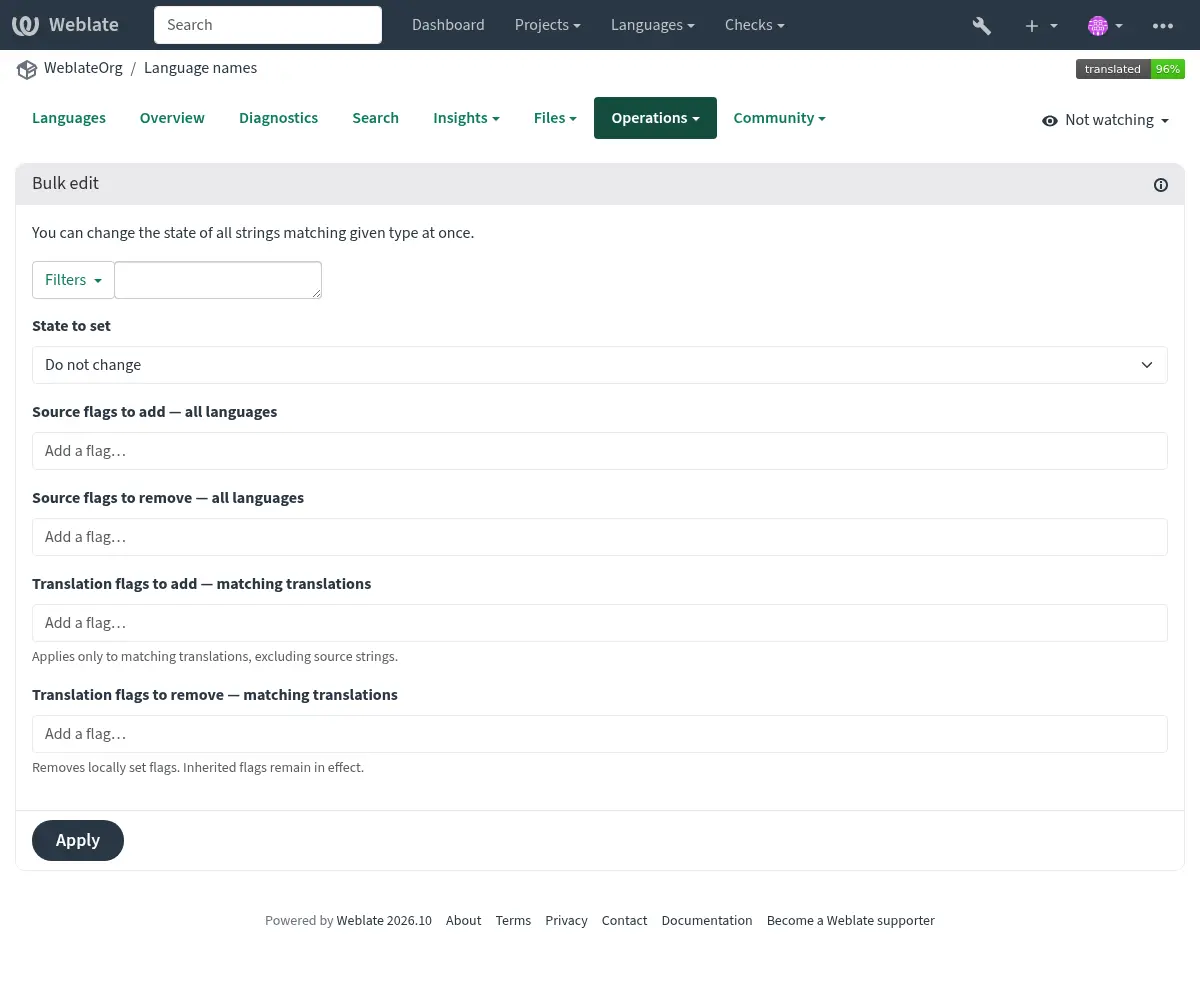
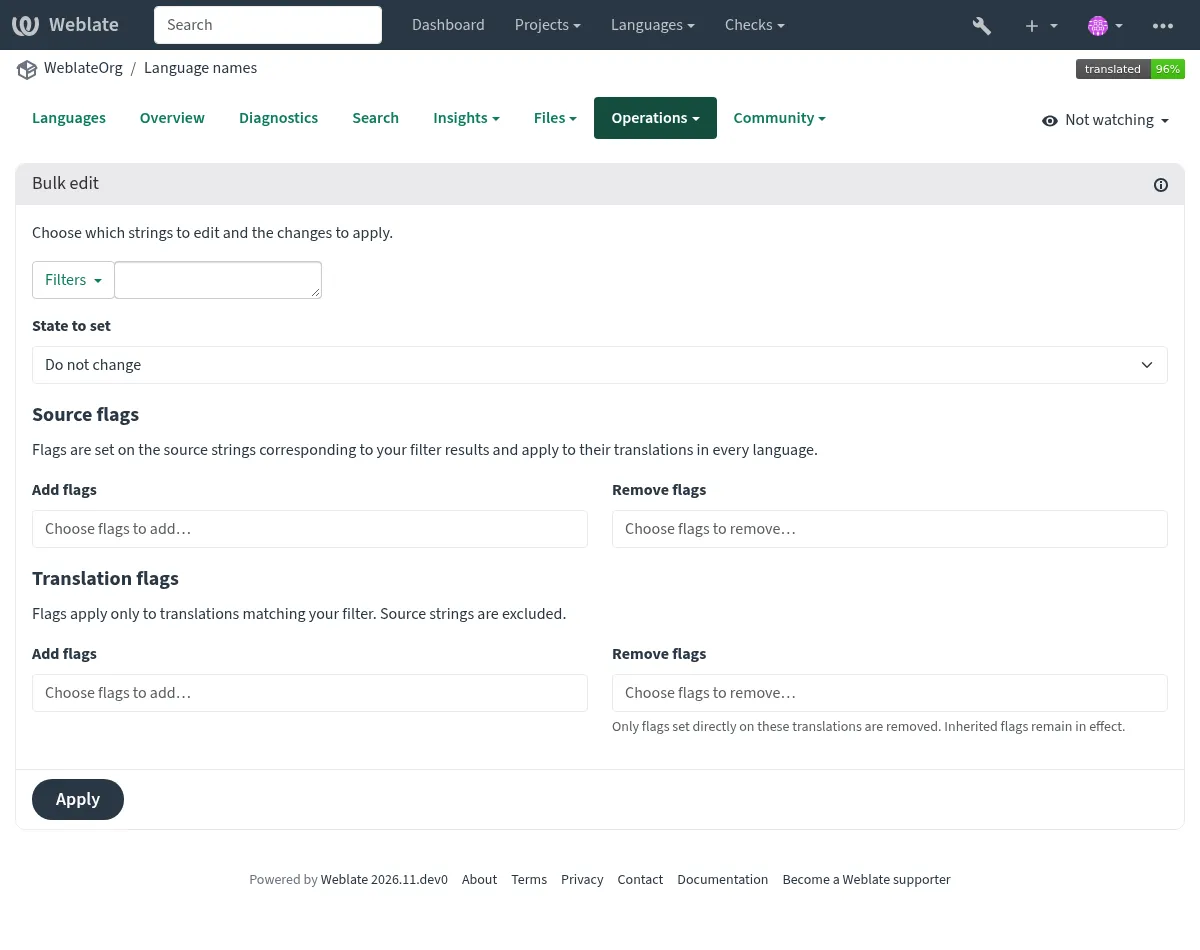
fix(ui): clarify bulk edit actions and scope
Group flags and labels by scope with paired add and remove fields to make their effects easier to distinguish. Use action-specific flag placeholders and verify responsive layout and accessible names in browser tests.

diff --git a/weblate/static/js/flag-editor.js b/weblate/static/js/flag-editor.js
@@ -151,7 +151,7 @@
       optgroupField: "category",
       optgroupLabelField: "category",
       optgroupValueField: "category",
-      placeholder: gettext("Add a flag…"),
+      placeholder: input.getAttribute("placeholder") || gettext("Add a flag…"),
       hidePlaceholder: false,
       maxOptions: null,
       render: {

diff --git a/weblate/templates/snippets/bulk-help.html b/weblate/templates/snippets/bulk-help.html
@@ -1,3 +1,3 @@
 {% load i18n %}
 
-<p>{% translate "You can change the state of all strings matching given type at once." %}</p>
+<p>{% translate "Choose which strings to edit and the changes to apply." %}</p>

diff --git a/weblate/trans/forms.py b/weblate/trans/forms.py
@@ -4609,35 +4609,26 @@ class BulkEditForm(forms.Form):
         choices=[(-1, gettext_lazy("Do not change"))],
     )
     path = forms.CharField(widget=forms.HiddenInput, required=False)
-    add_flags = FlagField(
-        label=gettext_lazy("Source flags to add — all languages"), required=False
-    )
-    remove_flags = FlagField(
-        label=gettext_lazy("Source flags to remove — all languages"), required=False
-    )
-    add_translation_flags = FlagField(
-        label=gettext_lazy("Translation flags to add — matching translations"),
-        required=False,
-        help_text=gettext_lazy(
-            "Applies only to matching translations, excluding source strings."
-        ),
-    )
+    add_flags = FlagField(label=gettext_lazy("Add flags"), required=False)
+    remove_flags = FlagField(label=gettext_lazy("Remove flags"), required=False)
+    add_translation_flags = FlagField(label=gettext_lazy("Add flags"), required=False)
     remove_translation_flags = FlagField(
-        label=gettext_lazy("Translation flags to remove — matching translations"),
+        label=gettext_lazy("Remove flags"),
         required=False,
         help_text=gettext_lazy(
-            "Removes locally set flags. Inherited flags remain in effect."
+            "Only flags set directly on these translations are removed. "
+            "Inherited flags remain in effect."
         ),
     )
     add_labels = CachedModelMultipleChoiceField(
         queryset=Label.objects.none(),
-        label=gettext_lazy("Labels to add — all languages"),
+        label=gettext_lazy("Add labels"),
         widget=forms.CheckboxSelectMultiple(),
         required=False,
     )
     remove_labels = CachedModelMultipleChoiceField(
         queryset=Label.objects.none(),
-        label=gettext_lazy("Labels to remove — all languages"),
+        label=gettext_lazy("Remove labels"),
         widget=forms.CheckboxSelectMultiple(),
         required=False,
     )
@@ -4703,10 +4694,6 @@ class BulkEditForm(forms.Form):
             self.helper.layout = Layout(
                 Div(template="snippets/bulk-selection-help.html"),
                 Field("state"),
-                Field("add_flags"),
-                Field("remove_flags"),
-                Field("add_translation_flags"),
-                Field("remove_translation_flags"),
             )
         else:
             self.helper.layout = Layout(
@@ -4714,14 +4701,78 @@ class BulkEditForm(forms.Form):
                 SearchField("q", user=user, project=get_saved_search_project(obj)),
                 Field("path"),
                 Field("state"),
-                Field("add_flags"),
-                Field("remove_flags"),
-                Field("add_translation_flags"),
-                Field("remove_translation_flags"),
             )
+
+        groups = [
+            (
+                gettext("Source flags"),
+                gettext(
+                    "Flags are set on the source strings corresponding to your "
+                    "selection and apply to their translations in every language."
+                )
+                if selection
+                else gettext(
+                    "Flags are set on the source strings corresponding to your filter "
+                    "results and apply to their translations in every language."
+                ),
+                "add_flags",
+                "remove_flags",
+            ),
+            (
+                gettext("Translation flags"),
+                gettext(
+                    "Flags apply only to translations in your selection. "
+                    "Source strings are excluded."
+                )
+                if selection
+                else gettext(
+                    "Flags apply only to translations matching your filter. "
+                    "Source strings are excluded."
+                ),
+                "add_translation_flags",
+                "remove_translation_flags",
+            ),
+        ]
         if labels:
-            self.helper.layout.append(InlineCheckboxes("add_labels"))
-            self.helper.layout.append(InlineCheckboxes("remove_labels"))
+            groups.append(
+                (
+                    gettext("Labels"),
+                    gettext(
+                        "Labels apply to the source strings corresponding to your "
+                        "selection and are shared across all languages."
+                    )
+                    if selection
+                    else gettext(
+                        "Labels apply to the source strings corresponding to your filter "
+                        "results and are shared across all languages."
+                    ),
+                    "add_labels",
+                    "remove_labels",
+                )
+            )
+        for title, description, add_field, remove_field in groups:
+            description_id = f"{self[add_field].auto_id}_scope"
+            if add_field == "add_labels":
+                fields = [InlineCheckboxes(add_field), InlineCheckboxes(remove_field)]
+            else:
+                fields = [Field(add_field), Field(remove_field)]
+                self.fields[add_field].widget.attrs["placeholder"] = gettext(
+                    "Choose flags to add…"
+                )
+                self.fields[remove_field].widget.attrs["placeholder"] = gettext(
+                    "Choose flags to remove…"
+                )
+            self.helper.layout.append(
+                Fieldset(
+                    title,
+                    HTML(format_html('<p id="{}">{}</p>', description_id, description)),
+                    Div(
+                        *(Div(field, css_class="col-md-6") for field in fields),
+                        css_class="row",
+                    ),
+                    aria_describedby=description_id,
+                )
+            )
 
     def clean(self):
         cleaned_data = super().clean() or {}

diff --git a/weblate/trans/tests/test_selenium.py b/weblate/trans/tests/test_selenium.py
@@ -2000,6 +2000,7 @@ class SeleniumTests(
         fixture = RepoTestMixin()
         fixture.clone_test_repos()
         project = Project.objects.create(name="Bulk selection", slug="bulk-selection")
+        project.label_set.create(name="Terminology", color="navy")
         component = fixture.create_po(project=project)
         translation = component.translation_set.get(language_code="cs")
         user = self.do_login(superuser=True)
@@ -2033,7 +2034,20 @@ class SeleniumTests(
         self.assertTrue(all(checkbox.is_selected() for checkbox in checkboxes))
         self.assertEqual(counter.text, f"{len(checkboxes)} strings selected")
         self.assertFalse(toggle.get_property("indeterminate"))
+        self.wait_for_screenshot_ready()
+        add_flags = self.driver.find_element(By.ID, "id_bulk_add_flags-ts-input")
+        remove_flags = self.driver.find_element(By.ID, "id_bulk_remove_flags-ts-input")
+        self.assertEqual(add_flags.get_attribute("placeholder"), "Choose flags to add…")
+        self.assertEqual(
+            remove_flags.get_attribute("placeholder"), "Choose flags to remove…"
+        )
+        self.assertEqual(add_flags.accessible_name, "Add flags")
+        self.assertEqual(remove_flags.accessible_name, "Remove flags")
         self.screenshot("bulk-edit-selection.png")
+        self.assertAlmostEqual(add_flags.rect["y"], remove_flags.rect["y"], delta=2)
+        self.driver.set_window_size(375, 900)
+        self.assertGreater(remove_flags.rect["y"], add_flags.rect["y"])
+        self.driver.set_window_size(1200, 1024)
 
         # Unselecting all strings on the page
         self.click(toggle)

diff --git a/docs/user/translating.rst b/docs/user/translating.rst
@@ -637,6 +637,8 @@ Bulk edit
 
 Bulk editing allows performing one operation for multiple strings.
 Define strings by searching for them and actions to perform on matching ones.
+Flag and label changes are grouped by what they affect, with separate
+:guilabel:`Add flags` and :guilabel:`Remove flags` fields for each flag group.
 Supported operations:
 
 * Change string state (for example to approve all unreviewed strings).
@@ -647,7 +649,7 @@ Source flag and label operations affect all languages of matching strings.
 Translation flag operations affect only matching translations and skip source
 strings. Removing translation flags removes local values; inherited flags
 remain in effect. To mark matching translations read-only, add ``read-only``
-under :guilabel:`Translation flags to add — matching translations`.
+using :guilabel:`Add flags` in the :guilabel:`Translation flags` section.
 
 .. hint::
 

diff --git a/docs/changes.rst b/docs/changes.rst
@@ -18,6 +18,7 @@ Weblate 2026.11
 
 * Reduced database queries during stale repository cleanup by :wladmin:`cleanuptrans` and scheduled maintenance.
 * Translation services can override the :ref:`rate-limit cooldown window <machinery-rate-limit-window>`, with shorter defaults for services that document short-term throttling and support for provider-supplied retry delays.
+* Clarified :ref:`bulk-edit` by grouping flags and labels by scope and separating add and remove actions.
 
 * Docker deployments support :ref:`signing in through Hosted Weblate or another Weblate installation <docker-weblate-auth>` using OpenID Connect.
 * Project administrators with :guilabel:`Edit project settings` can directly access and manage restricted components in their project; translation and download actions keep their separate permissions.
